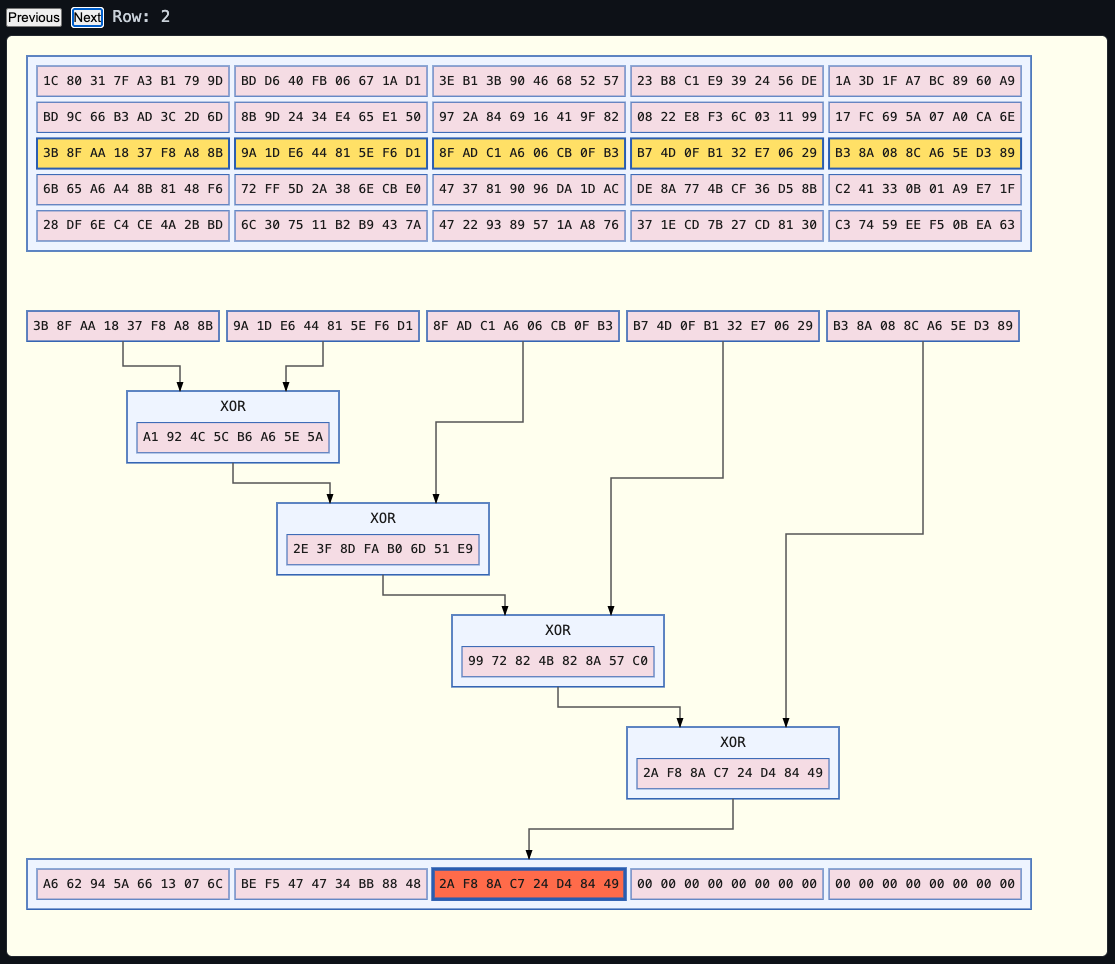
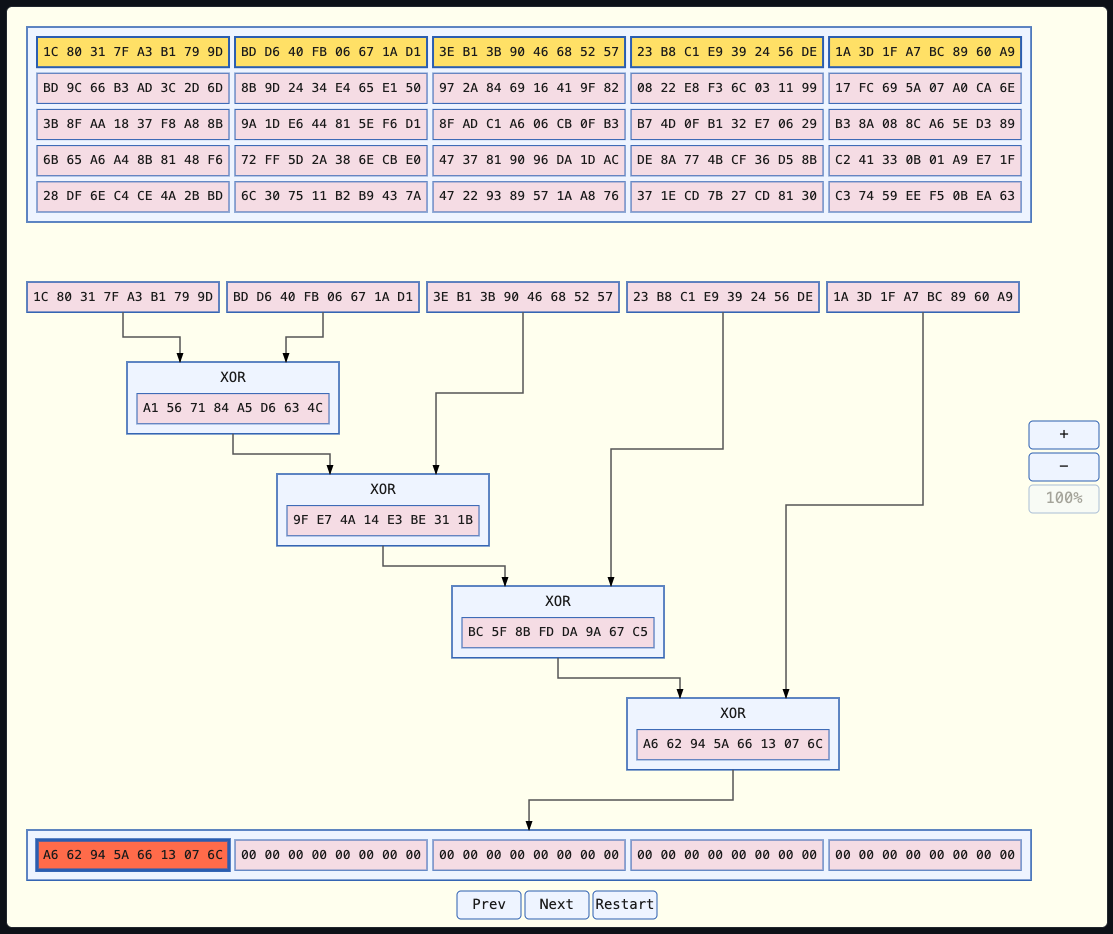
Update array operator screenshot

Changed region(s): [[0.0, 0.0, 1.0, 0.9936], [0.9164, 0.4347, 1.0, 0.5589], [0.9775, 0.9625, 1.0, 0.9936]]

diff --git a/changelog.md b/changelog.md
@@ -10,7 +10,11 @@ The format is based on [Keep a Changelog](https://keepachangelog.com/en/1.0.0/),
 
 ## Added
 
-- Implement a `SelectionToolbar` to step through array selection (``)
+- Implement a `SelectionToolbar` to step through array selection (`8a49933`)
+
+## Changed
+
+- Update array operator screenshot (``)
 
 # [Released]
 
